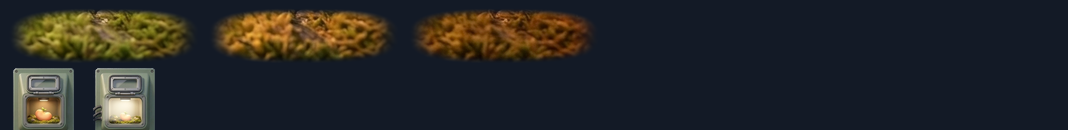
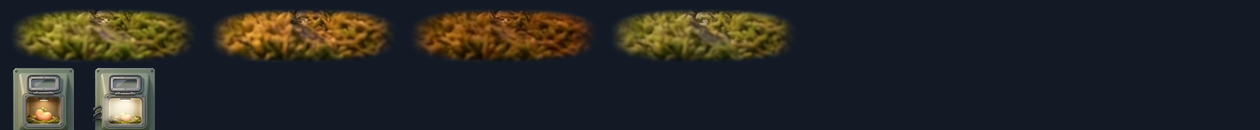
Pods masters pass 105: the near Vivarium by dawn, Home's bed by dawn

Changed region(s): [[0.0, 0.0615, 0.6489, 0.4615], [0.0, 0.5231, 0.1545, 1.0]]

diff --git a/art/station-masters/pods/tools/status.py b/art/station-masters/pods/tools/status.py
@@ -25,13 +25,15 @@ AD_RECORDS = {
 def sign(n, status, sig, note=""): S[n] = {"status": status, "signed_in": sig, "note": note}
 for n in m:
     AD = "art director, field guide"
-    if n == "home-bed-night-192x56": sign(n, "new", None, "pass 102: re-cut from the fixed Idle night (the art director held it until the night was fixed); awaiting the art director's judgement (not signed)")
+    if n == "home-bed-dawn-192x56": sign(n, "new", None, "pass 105: Home's bed by dawn, cut from the Idle dawn (the owner's decision of Oct 10); awaiting the art director's judgement (not signed)")
+    elif n == "home-bed-night-192x56": sign(n, "new", None, "pass 102: re-cut from the fixed Idle night (the art director held it until the night was fixed); awaiting the art director's judgement (not signed)")
     elif n in AD_RECORDS: sign(n, *AD_RECORDS[n])      # the art director's own records (verdicts of Oct 10), carried so that a re-run keeps them
     elif n in ("room-bench-stage", "room-bench-stage-overview", "room-bench-stage-chapter", "room-bench-stage-collection", "room-cradle", "room-cradle-front", "room-shelf", "room-stamp-case-152x152", "room-stamp-case-152x152-front", "ring-well-idle-80x80", "ring-well-selected-80x80", "ring-well-empty-80x80", "ring-hatch-80x56", "ring-kin-56x56", "ring-collection-idle-176x176", "ring-collection-closed-176x176"): sign(n, "signed", "art director, Pods room verdict (68130857)", "signed (art director): the Pods room in the world brief's look, the sample case of board frame 2 (passes 93, 95, 98)")
     elif n == "ring-column-112x522": sign(n, "signed", "art director, Pods room verdict (ac57c715)", "a strip of the housing: two rows of screws, a hose clip and a small vent; signed by the art director")
     elif re.match(r"home-(bay|well|chamber|cradle|journal|bed)-", n): sign(n, "new", None, "pass 99: Home's section column fitting, cut from the second Pro sheet (home-column-sheet-r2; the first, pass 97, was inked and had wood), transparent around it; awaiting the art director's judgement (not signed)")
     elif n == "vivarium-near-night-544x408": sign(n, "new", None, "pass 103: the art director held it (too bright, blooms for show); fixed by hand (blooms cut 50 percent toward a 31 px median, regraded to mean L* about 30.5 with R above B); awaiting the art director's judgement (not signed)")
     elif n == "idle-vivarium-dawn-1024x568": sign(n, "new", None, "pass 104: Idle's Vivarium by dawn (the owner's decision of Oct 10; a Pro edit of the signed day picture, graded to a mean L* of 40.8); awaiting the art director's judgement (not signed)")
+    elif n == "vivarium-near-dawn-544x408": sign(n, "new", None, "pass 105: the near Vivarium by dawn (the owner's decision of Oct 10; a Pro edit of the signed near day, in Idle's dawn light, graded to a mean L* of about 41); awaiting the art director's judgement (not signed)")
     elif re.match(r"vivarium-near-(day|dusk|night)-544x408$", n): sign(n, "new", None, "pass 101: the near Vivarium by light (a Pro painting; dusk and night are Pro edits of the near day picture, matched to the signed Idle lights), no creatures; awaiting the art director's judgement (not signed); the slice id is the art director's")
     elif re.match(r"idle-vivarium-(day|dusk|night)-1024x568$", n): sign(n, "signed", "art director, 10-10 09:27", "Idle's Vivarium by light, seams softened in pass 96 (hashes a41cd5a51668 / 8ff860ffa60a / de75e05559ba); the night's cooler canopy accepted")
     elif n in ("room-bench-stage", "room-bench-stage-overview", "room-bench-stage-chapter", "room-bench-stage-collection", "room-cradle", "room-cradle-front", "room-shelf", "room-stamp-case-152x152", "room-stamp-case-152x152-front", "ring-well-idle-80x80", "ring-well-selected-80x80", "ring-well-empty-80x80", "ring-hatch-80x56", "ring-kin-56x56", "ring-collection-idle-176x176", "ring-collection-closed-176x176", "ring-column-112x522"): sign(n, "new", None, "pass 93: the Pods room set in the sample-case language (the signed concept board, frame 2): Pro paintings, the stage composed to the layout's rectangles, the pieces cut at size from one sheet; replaces the earlier glass-dish set; awaiting the art director's judgement (not signed)")

diff --git a/art/station-masters/pods/tools/vivariumnear.py b/art/station-masters/pods/tools/vivariumnear.py
@@ -20,16 +20,23 @@ def bloom_fix(im):
     assert lstar(cand).mean() >= 30.0 and cand[..., 0].mean() >= cand[..., 2].mean()
     return Image.fromarray(cand.astype(np.uint8))
 man = json.load(open("slices/manifest.json")); outs = {}; rep = {}
-for k in ("day", "dusk", "night"):
+for k in ("day", "dusk", "night", "dawn"):
     im = Image.open(f"source/raw/vivarium-near-{k}.jpg").convert("RGB"); W, H = im.size; cw = round(H * 544 / 408)
     if cw <= W: x0 = (W - cw) // 2; im = im.crop((x0, 0, x0 + cw, H))
     else: ch = round(W * 408 / 544); y0 = (H - ch) // 2; im = im.crop((0, y0, W, y0 + ch))
     im = im.resize((544, 408), Image.LANCZOS)
+    if k == "dawn":
+        a = np.asarray(im).astype(float) / 255.0; lin = np.where(a <= 0.04045, a / 12.92, ((a + 0.055) / 1.055) ** 2.4)
+        for g in np.arange(1.0, 0.3, -0.01):
+            l2 = lin * g; cand = np.clip(np.rint(np.where(l2 <= 0.0031308, l2 * 12.92, 1.055 * l2 ** (1 / 2.4) - 0.055) * 255), 0, 255)
+            if lstar(cand).mean() <= 41.0: break
+        im = Image.fromarray(cand.astype(np.uint8)); rep["dawn gain"] = round(float(g), 2)
     if k == "night": before = im; im = bloom_fix(im); before.save("/tmp/near-night-before.png")
     n = f"vivarium-near-{k}-544x408"; im.save(f"slices/{n}.png", optimize=True); outs[k] = im
     rep[k] = round(float(lstar(np.asarray(im).astype(float)).mean()), 1)
     man[n] = {"size": [544, 408], "rect": [24, 56, 544, 408], "src": f"source/raw/vivarium-near-{k}.jpg (gemini-3-pro-image)", "made": f"the near Vivarium by {k} ('one mibi up close', the glass at screen (24, 56)): the same place as the signed Idle painting seen closer at ground level, a clear moss and soil band across the bottom 160 rows for one mibi, the burrow's edge, stones and roots behind, the feed line and the mist at the right edge, no creature; a Pro painting" + ("" if k == "day" else f" (an edit of the near day picture, matched to Idle's {k} light)") + ", cut to 4:3 and reduced to 544x408 with Lanczos (pass 101)", "sha256": hashlib.sha256(open(f"slices/{n}.png", "rb").read()).hexdigest()}
+man["vivarium-near-dawn-544x408"]["made"] = "the near Vivarium by dawn (the owner's decision of Oct 10): a Pro edit of the signed near day picture in Idle's dawn light (pale, clean, cool-gold, a soft mist and dew, nothing glowing), the same place, cut to 4:3 and reduced to 544x408, graded by the least linear gain that brings the mean L* to 41 or less (pass 105)"
 json.dump(man, open("slices/manifest.json", "w"), indent=1); print(json.dumps(rep))
-sheet = Image.new("RGB", (544 + 1024 + 24, 3 * 576 + 8), (10, 14, 18))
-for i, k in enumerate(("day", "dusk", "night")): sheet.paste(outs[k], (4, 4 + i * 576)); sheet.paste(Image.open(f"slices/idle-vivarium-{k}-1024x568.png").convert("RGB"), (544 + 16, 4 + i * 576))
+sheet = Image.new("RGB", (544 + 1024 + 24, 4 * 576 + 8), (10, 14, 18))
+for i, k in enumerate(("day", "dusk", "night", "dawn")): sheet.paste(outs[k], (4, 4 + i * 576)); sheet.paste(Image.open(f"slices/idle-vivarium-{k}-1024x568.png").convert("RGB"), (544 + 16, 4 + i * 576))
 sheet.save("marks/vivarium-near-proof-1x.png")

diff --git a/art/station-masters/pods/tools/homefix.py b/art/station-masters/pods/tools/homefix.py
@@ -9,7 +9,7 @@ ROOT = os.path.dirname(os.path.dirname(os.path.abspath(__file__))); os.chdir(ROO
 man = json.load(open("slices/manifest.json")); W, H = 192, 56; CX, CY = 848, 480; made = []
 yy, xx = np.mgrid[0:H, 0:W]; u = np.abs((xx + 0.5 - W / 2) / (W / 2)); v = np.abs((yy + 0.5 - H / 2) / (H / 2))
 sq = (u ** 3.0 + v ** 3.0) ** (1 / 3.0); alpha = np.clip((1.0 - sq) / 0.30, 0, 1); alpha = alpha * alpha * (3 - 2 * alpha)
-for k in ("day", "dusk", "night"):
+for k in ("day", "dusk", "night", "dawn"):
     src = Image.open(f"slices/idle-vivarium-{k}-1024x568.png").convert("RGB").crop((CX - W // 2, CY - H // 2, CX + W // 2, CY + H // 2))
     t = np.dstack([np.asarray(src), (alpha * 255).round().astype(np.uint8)]); n = f"home-bed-{k}-{W}x{H}"; Image.fromarray(t, "RGBA").save(f"slices/{n}.png", optimize=True); made.append(n)
     man[n] = {"size": [W, H], "rect": None, "src": f"slices/idle-vivarium-{k}-1024x568.png (signed, gemini-3-pro-image)", "made": f"Home's bed by {k}: the moss hollow cut 192x56 from the signed Vivarium's ground band at (752, 452) on the painting (the clear moss on the right of the ground band), edges feathered to clear (pass 100)", "sha256": hashlib.sha256(open(f"slices/{n}.png", "rb").read()).hexdigest()}
@@ -25,7 +25,7 @@ add = (win * (0.22 + 0.42 * rad))[..., None] * cream; out = 1 - (1 - lin) * (1 -
 Image.fromarray(a.astype(np.uint8), "RGBA").save(f"slices/{n}.png", optimize=True)
 man[n]["made"] += "; the inner light graded brighter and creamier by hand (pass 100)"; man[n]["sha256"] = hashlib.sha256(open(f"slices/{n}.png", "rb").read()).hexdigest()
 json.dump(man, open("slices/manifest.json", "w"), indent=1)
-bg = (19, 26, 38); sheet = Image.new("RGB", (192 * 3 + 40 + 72 * 3 * 2 + 20, 130), bg); x = 8
-for k in ("day", "dusk", "night"): t = Image.open(f"slices/home-bed-{k}-192x56.png"); sheet.paste(t, (8 + (192 + 8) * ("day", "dusk", "night").index(k), 8), t)
+bg = (19, 26, 38); sheet = Image.new("RGB", (192 * 4 + 40 + 72 * 3 * 2 + 20, 130), bg); x = 8
+for k in ("day", "dusk", "night", "dawn"): t = Image.open(f"slices/home-bed-{k}-192x56.png"); sheet.paste(t, (8 + (192 + 8) * ("day", "dusk", "night", "dawn").index(k), 8), t)
 for i, c in enumerate(("growing", "ready")): t = Image.open(f"slices/home-chamber-{c}-72x72.png"); sheet.paste(t, (8 + i * 80, 66), t)
 sheet.save("marks/home-fix-proof-1x.png"); print("ok", made)

diff --git a/art/station-masters/pods/README.md b/art/station-masters/pods/README.md
@@ -98,6 +98,7 @@ Each slice is named by the register id it replaces (`room`, `ring`, `page`, `tra
 | `home-bay-open-176x72` | 176×72 |  | signed (art director, Home column verdict (1f7d4a83)): signed (art director): Home's section column in the world brief's look (passes 97, 99, 100) | Home's section column: bay open, cut from one Pro sheet by keying the flat slate ground, trimmed and scaled uniformly (never stretched) to fit 176x72, transparent around it (pass 99, the second sheet) |
 | `home-bay-shut-176x72` | 176×72 |  | signed (art director, Home column verdict (1f7d4a83)): signed (art director): Home's section column in the world brief's look (passes 97, 99, 100) | Home's section column: bay shut, cut from one Pro sheet by keying the flat slate ground, trimmed and scaled uniformly (never stretched) to fit 176x72, transparent around it (pass 99, the second sheet) |
 | `home-bed-192x56` | 192×56 |  | signed (art director, Home column verdict (1f7d4a83)): signed (art director): Home's section column in the world brief's look (passes 97, 99, 100) | Home's bed, the id the builder already knows: the day version (the same file as home-bed-day-192x56), replacing the bowl of pass 99 (pass 100) |
+| `home-bed-dawn-192x56` | 192×56 |  | new: pass 105: Home's bed by dawn, cut from the Idle dawn (the owner's decision of Oct 10); awaiting the art director's judgement (not signed) | Home's bed by dawn: the moss hollow cut 192x56 from the signed Vivarium's ground band at (752, 452) on the painting (the clear moss on the right of the ground band), edges feathered to clear (pass 100) |
 | `home-bed-day-192x56` | 192×56 |  | signed (art director, Home column verdict (1f7d4a83)): signed (art director): Home's section column in the world brief's look (passes 97, 99, 100) | Home's bed by day: the moss hollow cut 192x56 from the signed Vivarium's ground band at (752, 452) on the painting (the clear moss on the right of the ground band), edges feathered to clear (pass 100) |
 | `home-bed-dusk-192x56` | 192×56 |  | signed (art director, Home column verdict (1f7d4a83)): signed (art director): Home's section column in the world brief's look (passes 97, 99, 100) | Home's bed by dusk: the moss hollow cut 192x56 from the signed Vivarium's ground band at (752, 452) on the painting (the clear moss on the right of the ground band), edges feathered to clear (pass 100) |
 | `home-bed-night-192x56` | 192×56 |  | new: pass 102: re-cut from the fixed Idle night (the art director held it until the night was fixed); awaiting the art director's judgement (not signed) | Home's bed by night: the moss hollow cut 192x56 from the signed Vivarium's ground band at (752, 452) on the painting (the clear moss on the right of the ground band), edges feathered to clear (pass 100) |
@@ -365,6 +366,7 @@ Each slice is named by the register id it replaces (`room`, `ring`, `page`, `tra
 | `trait-picture-standin-184x104` | 184×104 |  | withdrawn (pass 59 verdict): withdrawn with the pane (the withdrawal signed by the art director): the open chapter page (origin/design-pods-open d00f372a) has no per-cell frame and no stand-in card; nothing more is cut for it (the pass 58 sill frames were never signed) | the plain stand-in card for a trait picture not yet painted: deep ground, a faint hatch, no text |
 | `trait-picture-standin-184x256` | 184×256 |  | withdrawn (pass 59 verdict): withdrawn with the pane (the withdrawal signed by the art director): the open chapter page (origin/design-pods-open d00f372a) has no per-cell frame and no stand-in card; nothing more is cut for it (the pass 58 sill frames were never signed) | the plain stand-in card for a trait picture not yet painted: deep ground, a faint hatch, no text |
 | `trait-picture-standin-376x264` | 376×264 |  | withdrawn (pass 59 verdict): withdrawn with the pane (the withdrawal signed by the art director): the open chapter page (origin/design-pods-open d00f372a) has no per-cell frame and no stand-in card; nothing more is cut for it (the pass 58 sill frames were never signed) | the plain stand-in card for a trait picture not yet painted: deep ground, a faint hatch, no text |
+| `vivarium-near-dawn-544x408` | 544×408 | (24, 56, 544, 408) | new: pass 105: the near Vivarium by dawn (the owner's decision of Oct 10; a Pro edit of the signed near day, in Idle's dawn light, graded to a mean L* of about 41); awaiting the art director's judgement (not signed) | the near Vivarium by dawn (the owner's decision of Oct 10): a Pro edit of the signed near day picture in Idle's dawn light (pale, clean, cool-gold, a soft mist and dew, nothing glowing), the same place, cut to 4:3 and reduced to 544x408, graded by the least linear gain that brings the mean L* to 41 or less (pass 105) |
 | `vivarium-near-day-544x408` | 544×408 | (24, 56, 544, 408) | signed (art director, near Vivarium verdict (57490118)): signed (art director): the Vivarium up close, the same place as Idle at ground level | the near Vivarium by day ('one mibi up close', the glass at screen (24, 56)): the same place as the signed Idle painting seen closer at ground level, a clear moss and soil band across the bottom 160 rows for one mibi, the burrow's edge, stones and roots behind, the feed line and the mist at the right edge, no creature; a Pro painting, cut to 4:3 and reduced to 544x408 with Lanczos (pass 101) |
 | `vivarium-near-dusk-544x408` | 544×408 | (24, 56, 544, 408) | signed (art director, near Vivarium verdict (57490118)): signed (art director): the Vivarium up close, the same place as Idle at ground level | the near Vivarium by dusk ('one mibi up close', the glass at screen (24, 56)): the same place as the signed Idle painting seen closer at ground level, a clear moss and soil band across the bottom 160 rows for one mibi, the burrow's edge, stones and roots behind, the feed line and the mist at the right edge, no creature; a Pro painting (an edit of the near day picture, matched to Idle's dusk light), cut to 4:3 and reduced to 544x408 with Lanczos (pass 101) |
 | `vivarium-near-night-544x408` | 544×408 | (24, 56, 544, 408) | new: pass 103: the art director held it (too bright, blooms for show); fixed by hand (blooms cut 50 percent toward a 31 px median, regraded to mean L* about 30.5 with R above B); awaiting the art director's judgement (not signed) | the near Vivarium by night ('one mibi up close', the glass at screen (24, 56)): the same place as the signed Idle painting seen closer at ground level, a clear moss and soil band across the bottom 160 rows for one mibi, the burrow's edge, stones and roots behind, the feed line and the mist at the right edge, no creature; a Pro painting (an edit of the near day picture, matched to Idle's night light), cut to 4:3 and reduced to 544x408 with Lanczos (pass 101) |
@@ -739,6 +741,10 @@ Each slice is named by the register id it replaces (`room`, `ring`, `page`, `tra
 | `trait-picture-frame-376x264-unread` | 376×264 |  | withdrawn (pass 59 verdict): withdrawn with the pane (the withdrawal signed by the art director): the open chapter page (origin/design-pods-open d00f372a) has no per-cell frame and no stand-in card; nothing more is cut for it (the pass 58 sill frames were never signed) | frost texture at 0.9 alpha under the frame (pass 58: bottom rail deepened to a 20 px sill between the side rails (columns 9 to 365): the rails' body colour (60, 77, 92), opaque, flat, no ornament; its top edge is the top rail's inner profile mirrored; the rails keep their full profile to the bottom edge, with the old rail's two dark bottom rows) |
 
 <!-- end of the generated Slices section -->
+
+## Pass 105 - the near Vivarium by dawn, and Home's bed by dawn
+
+Item 3 of the Station art director's queue. One request to gemini-3-pro-image (`vivarium-near-dawn`: the near day picture to edit, Idle's dawn as the light reference), succeeded, not retried: **3.66 MXN**; items 2 and 3 so far 7.37 of the 26 cap; today's total is 84.45 MXN of 250. `vivarium-near-dawn-544x408` is cut like the other near lights and graded by a linear gain of 0.52 to a mean L* of 40.7 (as painted brighter), pale clean cool-gold light, a soft mist, dew, nothing glowing, hash (sha256 prefix) fd08527e36d5. `home-bed-dawn-192x56` is cut from the dawn painting at the same spot as the other beds (painting rect (752, 452, 192, 56), feathered to clear), hash 33fff95e9444. Both `new`. Every earlier near and bed file is byte-identical. The proof `marks/vivarium-near-proof-1x.png` has a fourth row (dawn beside Idle's dawn), `marks/home-fix-proof-1x.png` a fourth bed.
 
 ## Pass 104 - Idle's Vivarium by dawn
 
